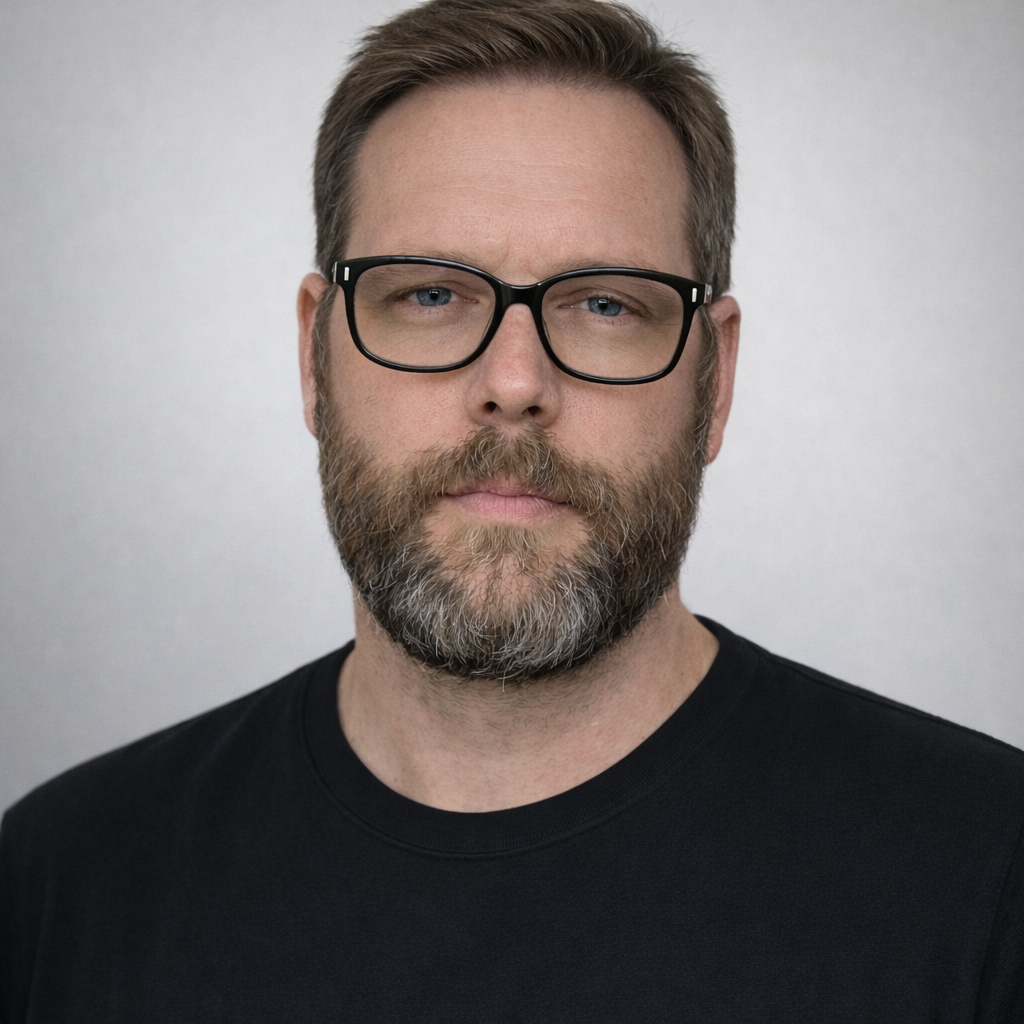
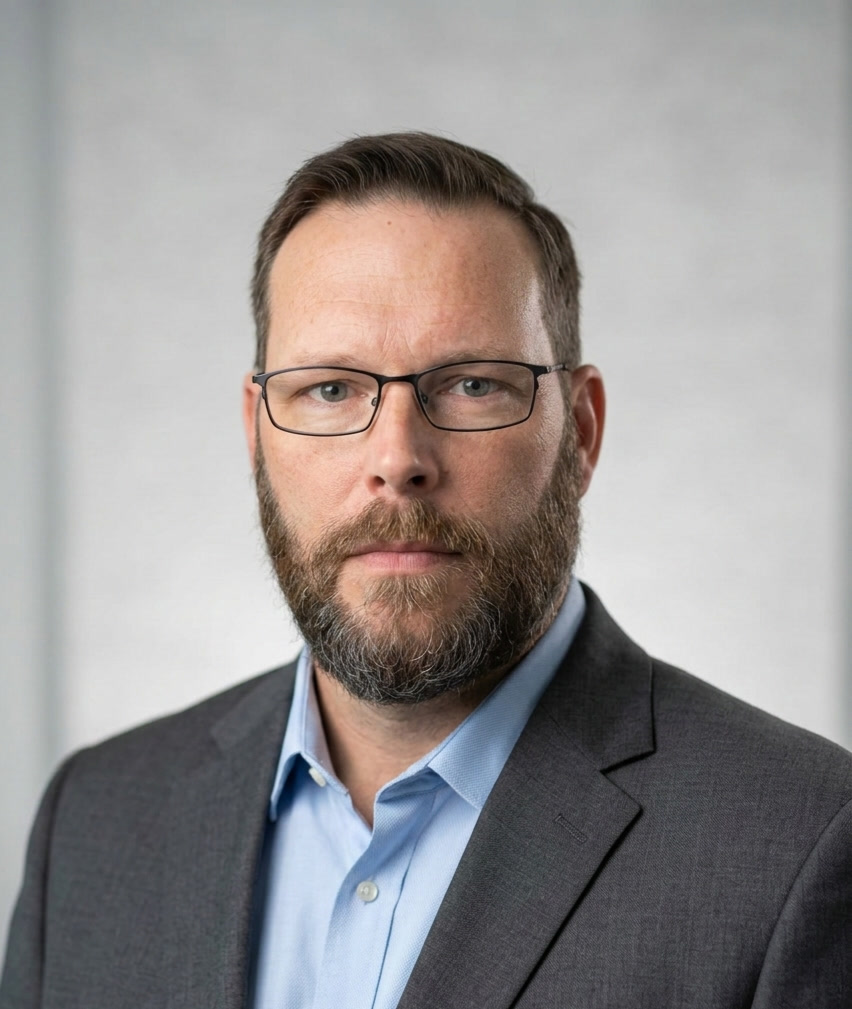
Update headshot image and increase profile photo size

diff --git a/index.html b/index.html
@@ -386,10 +386,10 @@
 
         /* Headshot placeholder */
         .headshot {
-            width: 100px;
-            height: 100px;
+            width: 136px;
+            height: 136px;
             border-radius: 50%;
-            border: 1px solid var(--stroke-2);
+            border: 2px solid var(--stroke-2);
             background: var(--surface-1);
             margin: var(--space-3) auto var(--space-2);
             display: flex;
@@ -400,6 +400,7 @@
             letter-spacing: var(--tracking-caps);
             text-transform: uppercase;
             overflow: hidden;
+            box-shadow: var(--shadow-1);
         }
 
         .headshot img {
@@ -1047,6 +1048,8 @@
 </head>
 
 <body>
+    <script src="https://keepandroidopen.org/banner.js"></script>
+
     <!-- Skip Link for Keyboard Navigation -->
     <a class="skip-link" href="#main">Skip to content</a>
 